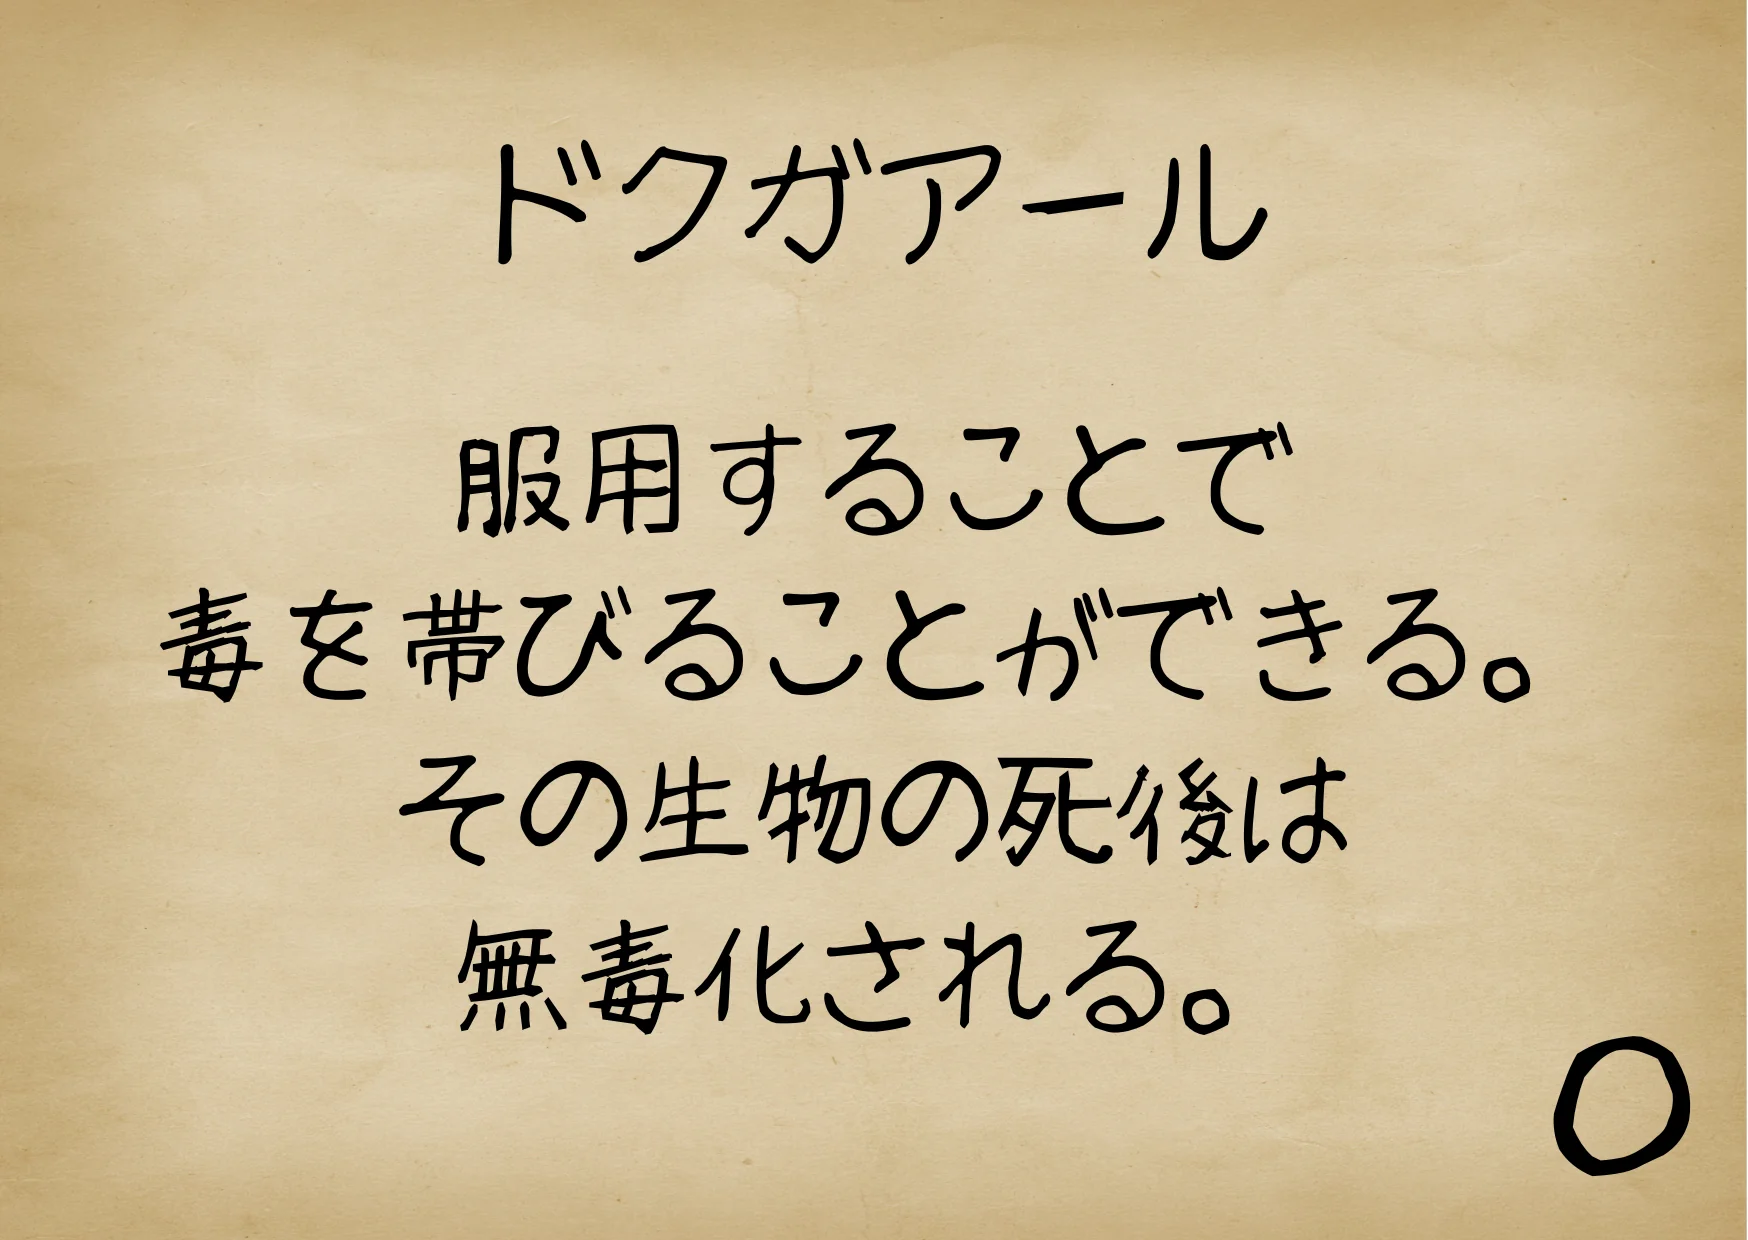
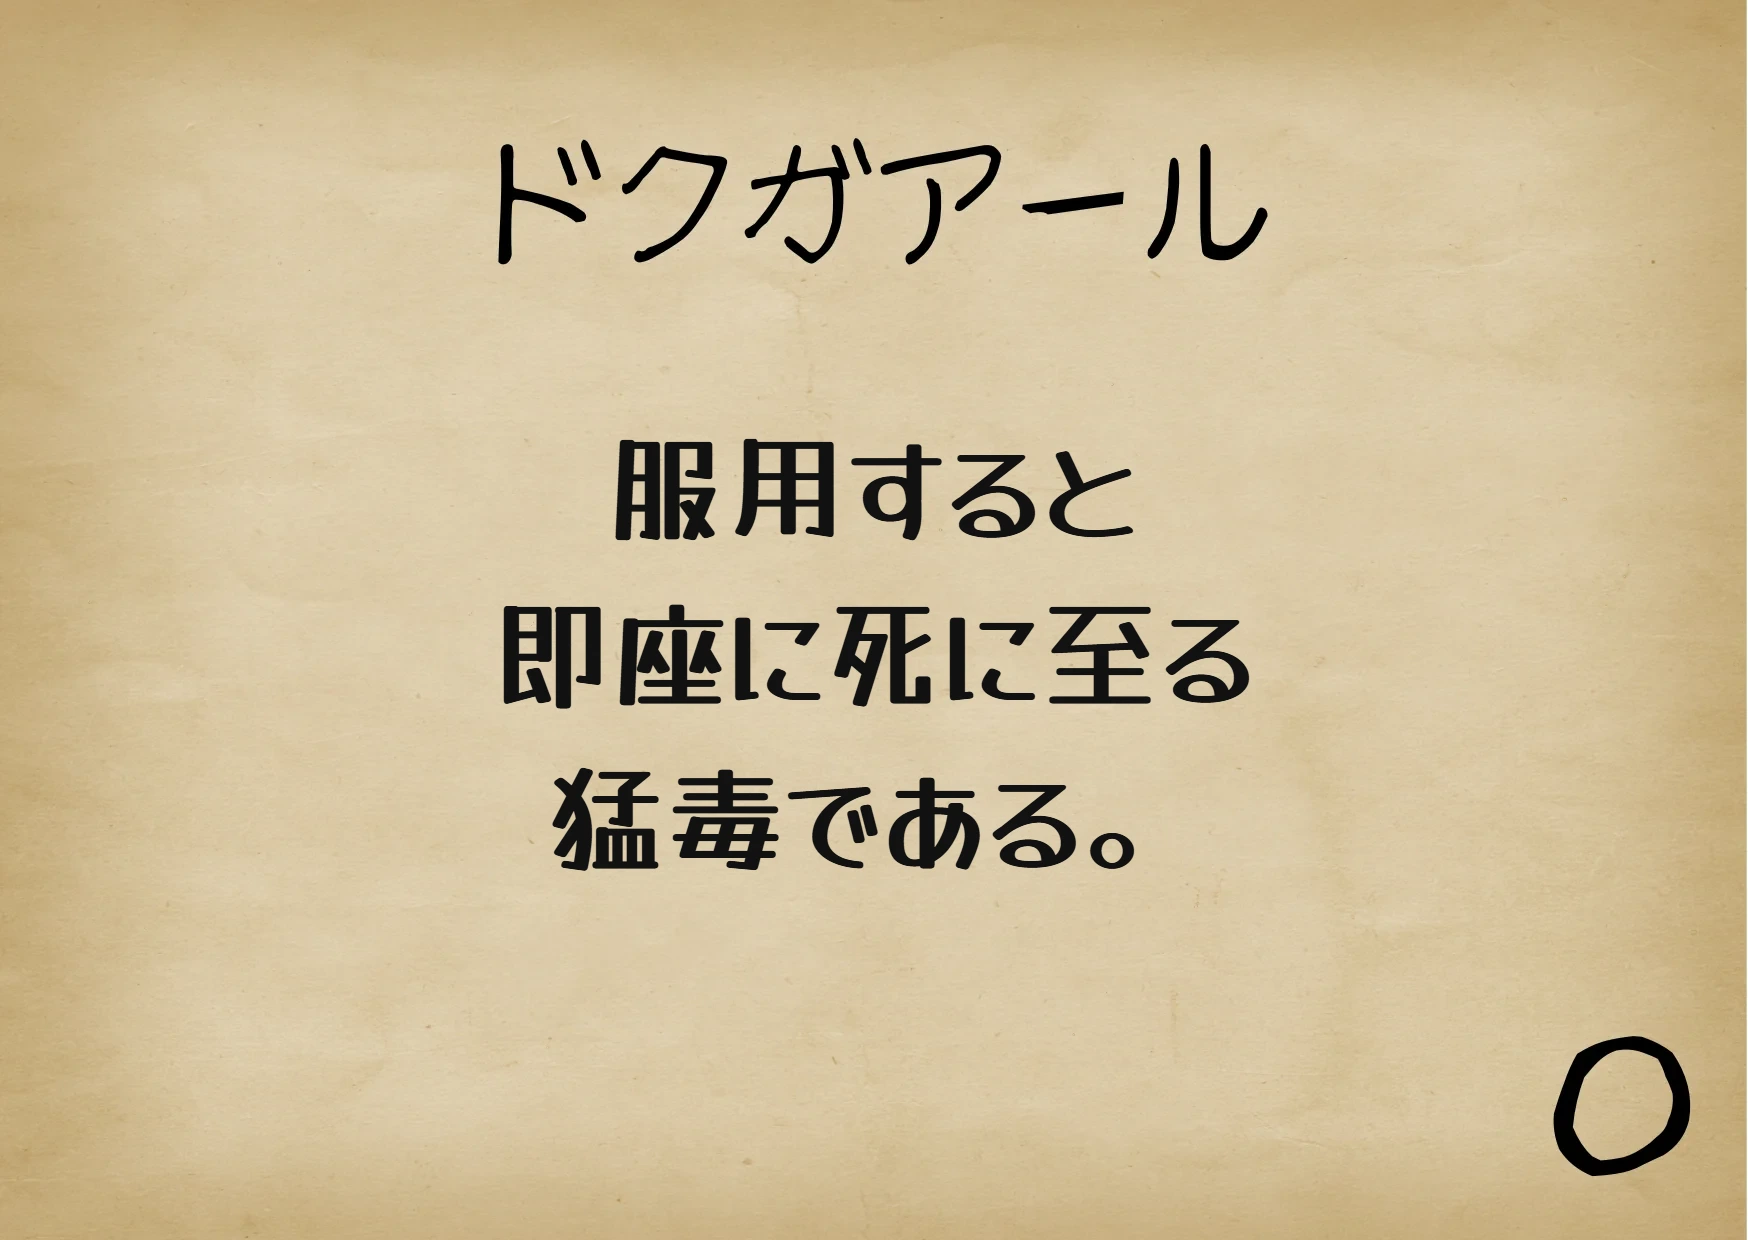
脱出ゲームの制限時間を20分にし、白い錠剤を毒薬に変更
- 制限時間を20分（酸素切れは25分）に短縮し、手紙の画像も20分に修正
- 白い錠剤（ドクガアール）を毒薬にし、飲むとBAD END④になるよう変更
- エンディングを一度見たあとは、タイマーから時間切れまで待てるようにした
- エンディング一覧で、未回収のエンディングに手がかりの一文を表示
- 箱の中の紙5枚の本文を同じ書体で描き直し
- 鉄棘樹が枯れる場面の文章を見直し

Changed region(s): [[0.0927, 0.3371, 0.8959, 0.5823], [0.2162, 0.6129, 0.7723, 0.7048], [0.2471, 0.7355, 0.7105, 0.8581]]

diff --git a/src/pages/escape/game.ts b/src/pages/escape/game.ts
@@ -2,9 +2,9 @@
 // 画面に依存しない純粋な状態遷移だけをここに置く
 
 /** 爆弾が爆発するまでの時間 */
-export const BOMB_MS = 60 * 60 * 1000;
+export const BOMB_MS = 20 * 60 * 1000;
 /** 爆弾を処理しても、密室の空気が尽きる時間 */
-export const AIR_MS = 75 * 60 * 1000;
+export const AIR_MS = 25 * 60 * 1000;
 /** 錠剤の効果時間 */
 export const PILL_MS = 60 * 1000;
 /** 棚の箱の3桁錠 */
@@ -15,7 +15,13 @@ export type View = Wall | "center" | "ceiling" | "basement" | "attic";
 export type PillId = "red" | "yellow" | "white" | "blue" | "purple";
 export type ItemId = "letter" | "pot" | "key" | "bomb" | PillId;
 export type DocId = "plant" | "manual" | "mystery" | "pills";
-export type Ending = "explosion" | "suffocation" | "thorn" | "normal" | "true";
+export type Ending =
+  | "explosion"
+  | "suffocation"
+  | "thorn"
+  | "poison"
+  | "normal"
+  | "true";
 export type Phase = "title" | "opening" | "playing" | "ending";
 
 /** 場面の中でタップできるもの */
@@ -45,7 +51,7 @@ export type Target =
   | "boiler"
   | "ladder-down";
 
-export type ChoiceId = "dive" | "thorn" | "leave" | "cancel";
+export type ChoiceId = "dive" | "thorn" | "leave" | "wait" | "cancel";
 
 export interface Choice {
   id: ChoiceId;
@@ -108,6 +114,7 @@ export type Action =
   | { type: "readDoc"; doc: DocId }
   | { type: "openBox" }
   | { type: "closeDialog" }
+  | { type: "askWait" }
   | { type: "retry" }
   | { type: "reset" };
 
@@ -412,7 +419,7 @@ function tapTree(state: GameState): GameState {
   if (selected === "letter") {
     return say(
       setFlags(lose(state, "letter"), { treeDead: true }),
-      "手紙を近づけた瞬間、葉が紙に巻きつき、あっという間に取り込んだ。\n\n……やがて、白いインクのにじんだ葉から、みるみる茶色く枯れていく。\n奥の壁の鍵に、手が届きそうだ。",
+      "手紙を近づけた瞬間、葉が紙に巻きつき、あっという間に取り込んだ。\n\n……やがて、手紙を取り込んだあたりの葉から、みるみる茶色く枯れていく。\n紙に染みていた白いインクの毒が、回ったのだろうか。\n\n奥の壁の鍵に、手が届きそうだ。",
     );
   }
   if (selected === "pot") {
@@ -579,16 +586,21 @@ function choose(state: GameState, id: ChoiceId): GameState {
       );
     case "thorn":
       return { ...end(state, "thorn"), checkpoint: closed };
+    case "wait":
+      // 何もせずに、時間切れまで待つ
+      return tick(
+        closed,
+        (state.flags.bombDisposed ? AIR_MS : BOMB_MS) - state.elapsed,
+      );
     case "leave":
       return end(state, "normal");
   }
 }
 
-const DRINK_TEXT: Record<PillId, string> = {
+/** 飲むと効果が出る錠剤の、飲んだときの感覚（白い錠剤は毒薬なので、ここには無い） */
+const DRINK_TEXT: Record<Exclude<PillId, "white">, string> = {
   red: "体の芯がひんやりとして、暖炉の熱気を感じなくなった。",
   yellow: "体が羽のように軽くなった。どこまでも跳べそうな気がする。",
-  white:
-    "舌がしびれ、指先がうっすらと紫色に染まった。\n……体が毒を帯びたようだ。",
   blue: "胸がすうっと楽になった。息を止めていても、少しも苦しくない。",
   purple: "体の奥から力がわいてくる。何でも持ち上げられそうだ。",
 };
@@ -655,6 +667,13 @@ export function reducer(state: GameState, action: Action): GameState {
     case "drink": {
       const { pill } = action;
       if (!has(state, pill)) return state;
+      // 白い錠剤（ドクガアール）はただの毒薬。飲んだ時点で命はない
+      if (pill === "white") {
+        return {
+          ...end(lose(state, pill), "poison"),
+          checkpoint: { ...state, dialog: null },
+        };
+      }
       return say(
         {
           ...lose(state, pill),
@@ -673,6 +692,19 @@ export function reducer(state: GameState, action: Action): GameState {
           ? state
           : { ...state, docs: [...state.docs, "pills"] },
         { boxOpen: true },
+      );
+    case "askWait":
+      return say(
+        state,
+        state.flags.bombDisposed
+          ? "爆弾はもう処理した。\nこのまま何もせず、空気が尽きるまで待つこともできる。"
+          : "このまま何もせず、タイムリミットが来るまで待つこともできる。",
+        {
+          choices: [
+            { id: "wait", label: "時間が過ぎるのを待つ", danger: true },
+            cancel,
+          ],
+        },
       );
     case "closeDialog":
       // 選択肢つきのダイアログは、選ぶまで閉じない
@@ -728,6 +760,7 @@ export const ENDING_ORDER: readonly Ending[] = [
   "explosion",
   "suffocation",
   "thorn",
+  "poison",
 ];
 
 export function loadEndings(): Ending[] {
@@ -842,7 +875,7 @@ export function getHint(state: GameState): Hint {
       topic: "tree",
       steps: [
         "床の扉から下の階へ。鍵の前をふさぐ植物は、植物図鑑に載っている。触れてはいけない。",
-        "図鑑によれば、駆除には毒物が必要だ。ただし錠剤を飲めるのは「自力で行動可能な生物」だけ。そして、葉に触れた生物は助からない。",
+        "図鑑によれば、駆除には毒物が必要だ。ただし箱の中の紙にある毒の錠剤は、飲んだ者が命を落とすだけ。それに、錠剤を飲めるのは「自力で行動可能な生物」に限られる。",
         "毒は錠剤だけとは限らない。図鑑には、毒をもつ花がもうひとつ載っている。その花は、何の原料になる？",
         "鉄棘樹は、葉に触れた「もの」を取り込む。生き物でなくてもいい。白いインクで書かれたものを、最初から持っていないだろうか。",
       ],

diff --git a/src/pages/escape/EscapeGamePage.tsx b/src/pages/escape/EscapeGamePage.tsx
@@ -86,7 +86,7 @@ function TitleScreen({ dispatch }: ScreenProps) {
         <p className="eg-lead">
           目を覚ますと、見知らぬ部屋。
           <br />
-          残された時間は、60分。
+          残された時間は、20分。
         </p>
         <div className="eg-actions">
           {saved && (
@@ -139,7 +139,7 @@ function TitleScreen({ dispatch }: ScreenProps) {
           ネタバレは禁止ですが、プレイ後の感想は大歓迎です。<b>#やま謎</b>{" "}
           でお待ちしています。
         </li>
-        <li>制作：やまーた ／ 想定プレイ時間：30〜60分</li>
+        <li>制作：やまーた ／ 制限時間：20分</li>
       </ul>
     </div>
   );
@@ -170,7 +170,7 @@ function OpeningScreen({ dispatch }: ScreenProps) {
             探索を開始する
           </button>
           <p className="eg-note">
-            ボタンを押すと、60分のタイマーが動き出します。
+            ボタンを押すと、20分のタイマーが動き出します。
           </p>
         </div>
       ) : (
@@ -203,20 +203,20 @@ function TimerBadge({ state }: { state: GameState }) {
   if (!flags.bombDisposed) {
     const left = BOMB_MS - elapsed;
     const level =
-      left < 60_000 ? " is-critical" : left < 600_000 ? " is-low" : "";
+      left < 60_000 ? " is-critical" : left < 300_000 ? " is-low" : "";
     return (
-      <p className={`eg-timer${level}`} aria-label="爆発までの残り時間">
+      <span className={`eg-timer${level}`} aria-label="爆発までの残り時間">
         {formatClock(left)}
-      </p>
+      </span>
     );
   }
   if (elapsed < BOMB_MS) {
-    return <p className="eg-timer is-safe">爆弾処理済</p>;
+    return <span className="eg-timer is-safe">爆弾処理済</span>;
   }
   return (
-    <p className="eg-timer is-critical" aria-label="空気が尽きるまでの時間">
+    <span className="eg-timer is-critical" aria-label="空気が尽きるまでの時間">
       空気 {formatClock(AIR_MS - elapsed)}
-    </p>
+    </span>
   );
 }
 
@@ -398,6 +398,8 @@ function PlayScreen({ state, dispatch }: ScreenProps) {
   };
 
   const hint = getHint(state);
+  // 一度でもエンディングを見た人は、タイマーから時間切れまで待てる（エンディング集め用）
+  const [canWait] = useState(() => loadEndings().length > 0);
   const active = PILLS.filter((pill) => isActive(state, pill));
 
   return (
@@ -407,7 +409,25 @@ function PlayScreen({ state, dispatch }: ScreenProps) {
           ← 中断
         </Link>
         <h1>{VIEW_NAMES[state.view]}</h1>
-        <TimerBadge state={state} />
+        {canWait ? (
+          <button
+            type="button"
+            className="eg-timer-wrap"
+            title="時間が過ぎるのを待つ"
+            onClick={() => {
+              dispatch({ type: "askWait" });
+            }}
+          >
+            <TimerBadge state={state} />
+            <span className="eg-timer-skip" aria-hidden="true">
+              ▸▸
+            </span>
+          </button>
+        ) : (
+          <span className="eg-timer-wrap">
+            <TimerBadge state={state} />
+          </span>
+        )}
       </header>
 
       <div className="eg-stage">

diff --git a/src/pages/escape/data.ts b/src/pages/escape/data.ts
@@ -23,7 +23,7 @@ export const LETTER_DOC: Doc = {
   pages: [
     {
       src: LETTER_IMAGE,
-      alt: "この部屋のとある場所に時限爆弾をしかけた。タイムリミットは君がこの手紙を読んでから60分だ。",
+      alt: "この部屋のとある場所に時限爆弾をしかけた。タイムリミットは君がこの手紙を読んでから20分だ。",
     },
   ],
 };
@@ -117,6 +117,8 @@ export interface EndingData {
   tone: "bad" | "normal" | "true";
   /** X で共有するときの一言 */
   share: string;
+  /** まだ見ていない人に向けた、ほのめかす程度の手がかり（エンディング一覧に出す） */
+  clue: string;
   lines: string[];
 }
 
@@ -126,6 +128,7 @@ export const ENDINGS: Record<Ending, EndingData> = {
     subtitle: "〜時間切れ〜",
     tone: "bad",
     share: "プレイしました",
+    clue: "時間は、待ってくれない。",
     lines: [
       "ドッカーン！！！",
       "",
@@ -141,6 +144,7 @@ export const ENDINGS: Record<Ending, EndingData> = {
     subtitle: "〜酸素切れ〜",
     tone: "bad",
     share: "プレイしました",
+    clue: "憂いは断った。けれど、この部屋には……。",
     lines: [
       "朦朧とする意識。",
       "爆弾を解除し、あとは部屋を出るだけ。",
@@ -157,6 +161,7 @@ export const ENDINGS: Record<Ending, EndingData> = {
     subtitle: "〜鉄の棘〜",
     tone: "bad",
     share: "プレイしました",
+    clue: "触れてはいけないものに、手を伸ばす。",
     lines: [
       "葉に触れた、その瞬間だった。",
       "",
@@ -168,11 +173,28 @@ export const ENDINGS: Record<Ending, EndingData> = {
       "「あぁ…失敗したんだな…」と。",
     ],
   },
+  poison: {
+    label: "BAD END④",
+    subtitle: "〜毒〜",
+    tone: "bad",
+    share: "プレイしました",
+    clue: "口にしてはいけないものを、口にする。",
+    lines: [
+      "錠剤を飲み込んだ、その直後だった。",
+      "",
+      "舌がしびれ、喉が焼け、指先から力が抜けていく。",
+      "立っていることもできず、あなたは床に崩れ落ちた。",
+      "",
+      "薄れる意識の中であなたは悟った。",
+      "「あぁ…失敗したんだな…」と。",
+    ],
+  },
   normal: {
     label: "NORMAL END",
     subtitle: "〜生還おめでとうございます〜",
     tone: "normal",
     share: "NORMAL ENDでクリアしました",
+    clue: "自分だけは、助かる。",
     lines: [
       "あなたは扉の鍵を開け外に出ることに成功した。",
       "扉の先は暗い廊下になっており、そのまま進むと階段があった。",
@@ -195,6 +217,7 @@ export const ENDINGS: Record<Ending, EndingData> = {
     subtitle: "〜「やまーたからの挑戦状」クリアおめでとうございます！〜",
     tone: "true",
     share: "TRUE ENDでクリアしました",
+    clue: "すべての憂いを断って、扉を開ける。",
     lines: [
       "あなたは扉の鍵を開け外に出ることに成功した。",
       "扉の先は暗い廊下になっており、そのまま進むと階段があった。",

diff --git a/src/pages/escape/escape.css b/src/pages/escape/escape.css
@@ -368,8 +368,24 @@
   white-space: nowrap;
 }
 
-.eg-timer {
+.eg-timer-wrap {
   justify-self: end;
+  display: inline-flex;
+  align-items: center;
+  gap: 4px;
+  padding: 0;
+  border: 0;
+  background: none;
+}
+
+.eg-timer-skip {
+  font-size: 10px;
+  letter-spacing: -0.2em;
+  color: var(--eg-dim);
+}
+
+.eg-timer {
+  display: inline-block;
   padding: 2px 10px;
   border-radius: 6px;
   background: rgba(255, 255, 255, 0.07);
@@ -1101,10 +1117,21 @@
 }
 
 .eg-ending-list li.is-locked {
-  padding: 12px 14px;
-  letter-spacing: 0.2em;
+  display: flex;
+  flex-direction: column;
+  padding: 10px 14px;
   color: var(--eg-dim);
+}
+
+.eg-ending-list li.is-locked b {
+  font-size: 17px;
+  letter-spacing: 0.2em;
   opacity: 0.6;
+}
+
+.eg-ending-list li.is-locked span {
+  font-family: var(--eg-serif);
+  font-size: 13px;
 }
 
 .eg-ending-list summary {

diff --git a/src/pages/escape/overlays.tsx b/src/pages/escape/overlays.tsx
@@ -561,6 +561,7 @@ export function EndingList({
       <div className="eg-sheet-body">
         <p className="eg-note">
           {seen.length} / {ENDING_ORDER.length} 種類のエンディングを見ました。
+          探索中に右上のタイマーをタップすると、時間が過ぎるのを待つこともできます。
         </p>
         <ul className="eg-ending-list">
           {ENDING_ORDER.map((ending) => {
@@ -568,7 +569,8 @@ export function EndingList({
             if (!seen.includes(ending)) {
               return (
                 <li key={ending} className="is-locked">
-                  ？？？
+                  <b>？？？</b>
+                  <span>{data.clue}</span>
                 </li>
               );
             }
